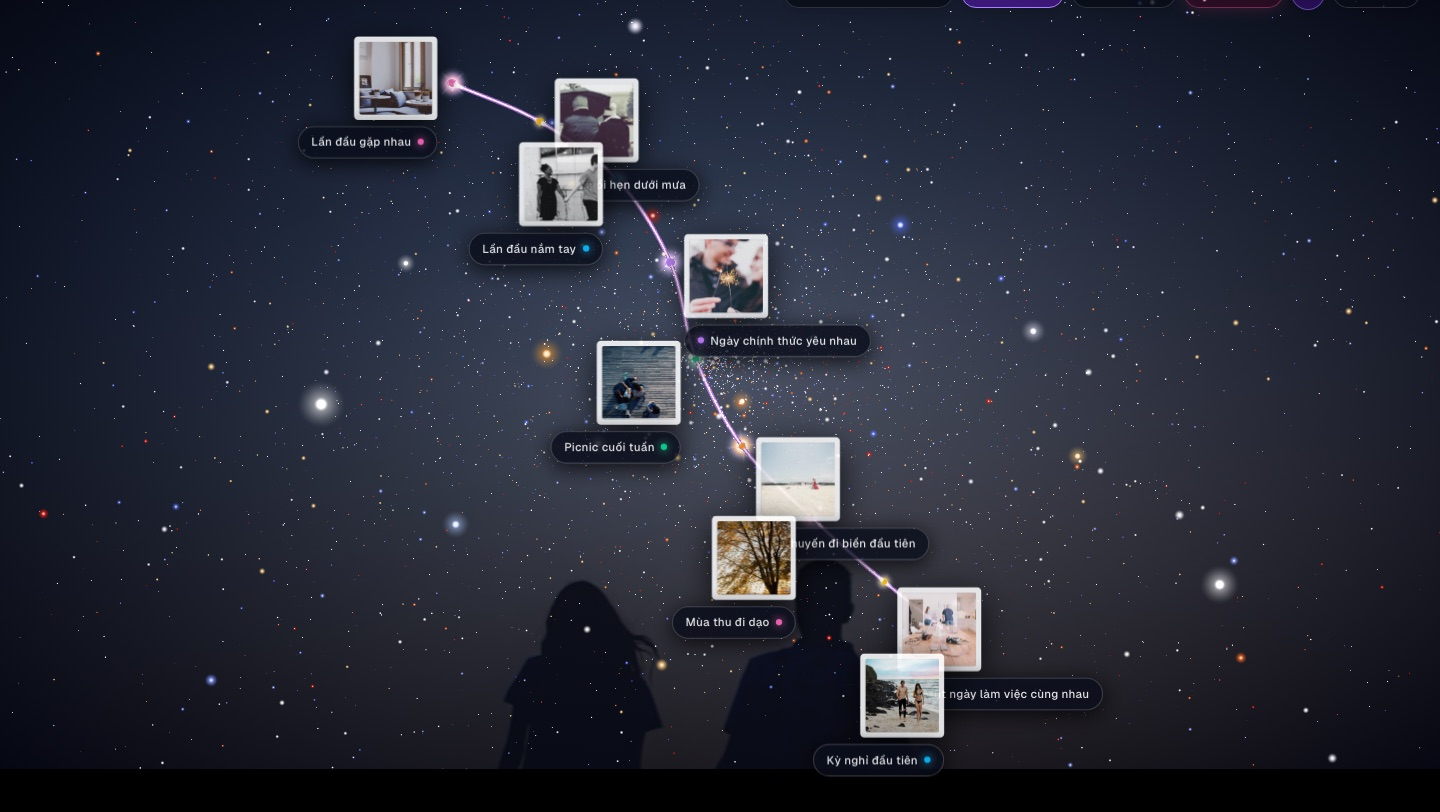
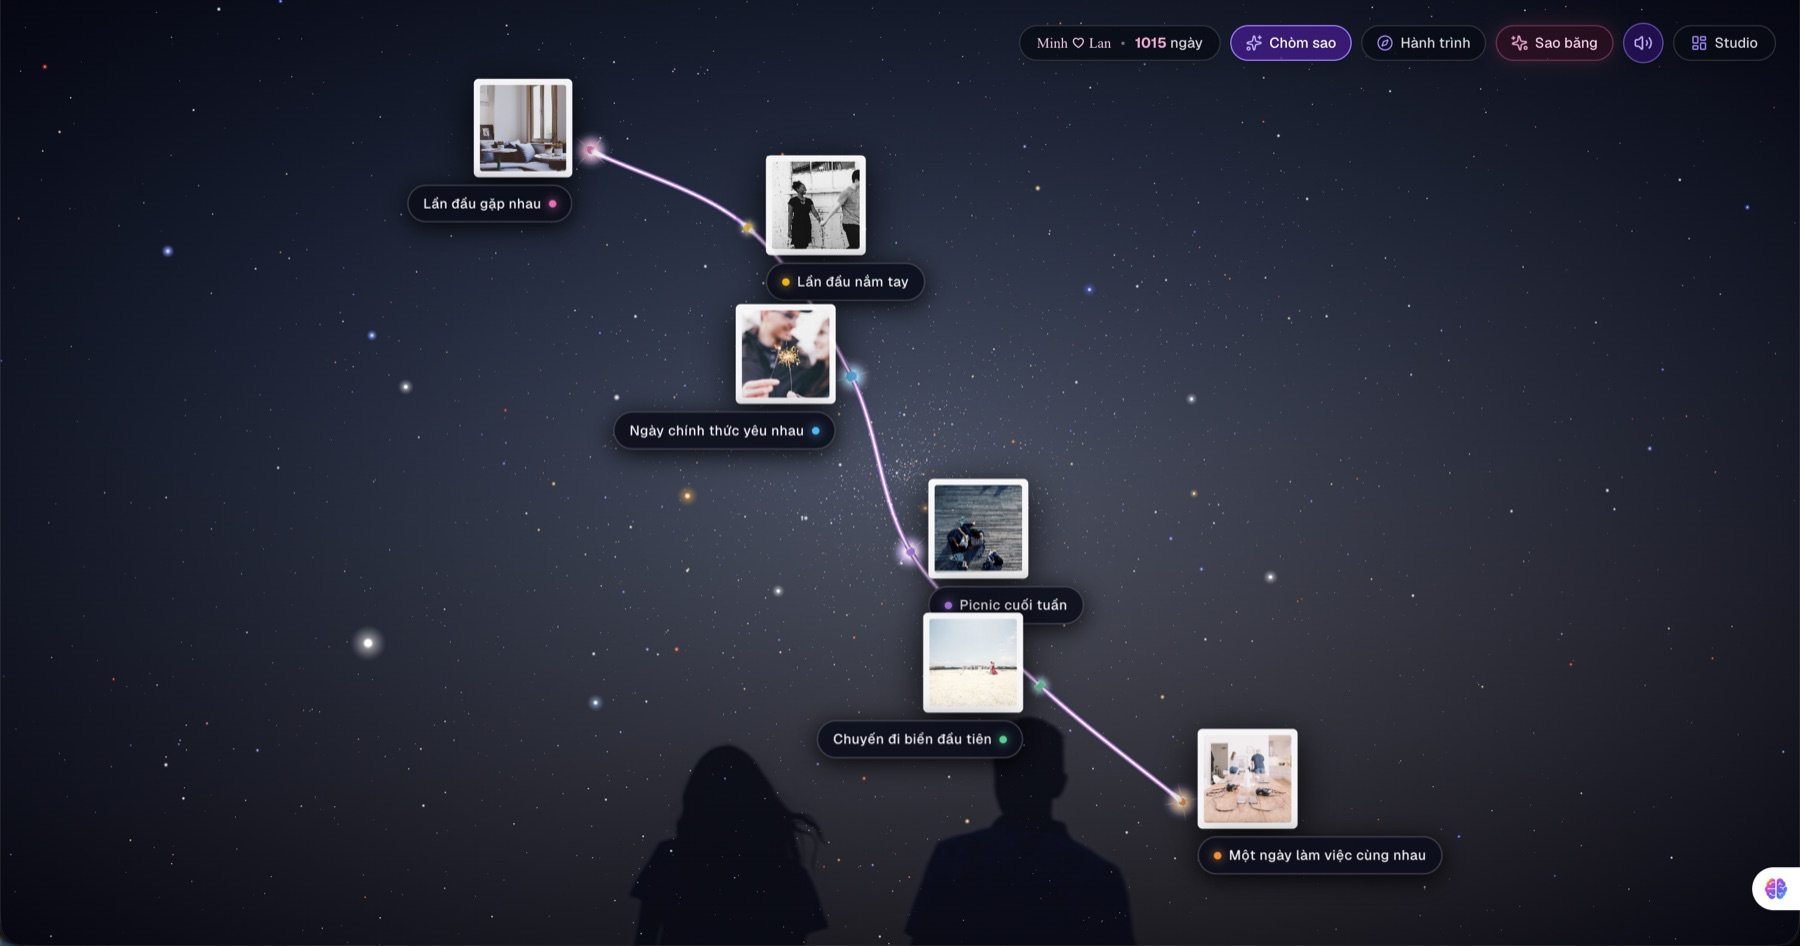
Viết lại README: hướng dẫn chạy local cho Windows, macOS, Linux; cập nhật ảnh ứng dụng

diff --git a/README.md b/README.md
@@ -1,148 +1,290 @@
-# Memories — Our Little Universe 🌌
+# Memories — Our Little Universe
 
-Website lưu giữ kỷ niệm dưới dạng **thiên hà 3D** và **dòng thời gian**. Mỗi kỷ niệm là một ngôi sao: có tiêu đề, ngày, địa điểm và bộ ảnh. Khách xem trang công khai không cần đăng nhập; chủ không gian (và tối đa một người cùng chỉnh sửa) quản lý nội dung trong trang **Studio**.
+Website lưu giữ kỷ niệm của hai người dưới dạng một bầu trời sao 3D. Mỗi kỷ niệm là một ngôi sao, gồm tiêu đề, ngày, địa điểm, lời nhắn và bộ ảnh. Khách xem trang không cần đăng nhập. Chủ không gian (và tối đa một người cùng chỉnh sửa) quản lý nội dung trong trang Studio.
 
-Repo kèm sẵn **dữ liệu mẫu** của một cặp đôi hư cấu (Minh ♡ Lan) để chạy thử ngay.
+Repo có sẵn dữ liệu mẫu của một cặp đôi hư cấu (Minh và Lan), nên clone về là chạy và xem được ngay, không cần tạo tài khoản dịch vụ nào.
 
-## 📸 Ảnh ứng dụng
+## Ảnh ứng dụng
 
-![Thiên hà kỷ niệm](docs/screenshots/galaxy.jpg)
+Bầu trời sao kỷ niệm (trang chủ):
 
-| Dòng thời gian `/story` | Cột mốc `/milestones` | Điện thoại |
-|---|---|---|
-| ![Dòng thời gian](docs/screenshots/story.jpg) | ![Cột mốc](docs/screenshots/milestones.jpg) | ![Mobile](docs/screenshots/galaxy-mobile.jpg) |
+![Bầu trời sao kỷ niệm](docs/screenshots/galaxy.jpg)
+
+Xem chi tiết một kỷ niệm:
+
+![Chi tiết kỷ niệm](docs/screenshots/memory-detail.jpg)
+
+Trang quản trị Studio:
+
+![Studio](docs/screenshots/studio.jpg)
+
+## Tính năng
+
+- Trang chủ `/`: bầu trời sao 3D, mỗi kỷ niệm là một ngôi sao nối với nhau theo thời gian, có bộ đếm số ngày bên nhau và nhạc nền.
+- Bấm vào một ngôi sao để xem ảnh dạng polaroid kèm ngày, địa điểm và lời nhắn.
+- `/story`: dòng thời gian theo năm, có bộ lọc theo năm.
+- `/milestones`: các cột mốc quan trọng.
+- Studio `/studio`: thêm, sửa, xoá kỷ niệm; upload và sắp xếp nhiều ảnh; chọn trạng thái Xuất bản, Riêng tư hoặc Bản nháp; đổi tên hiển thị, tiêu đề, ngày bắt đầu, nhạc nền.
+- Mời người thứ hai cùng chỉnh sửa bằng link dùng một lần, hết hạn sau 7 ngày.
+- Giao diện tối ưu cho điện thoại.
+
+## Công nghệ
+
+Next.js 16 (App Router), React 19, TypeScript, Tailwind CSS 4, Three.js, Supabase (Postgres, Auth, Storage), Zod, Vitest.
 
 ---
 
-## ✨ Tính năng
+## Chạy dự án trên máy
 
-- **Trang chủ `/`**: thiên hà 3D (Three.js) với mỗi kỷ niệm là một ngôi sao, có bộ đếm ngày, xem ảnh dạng lightbox.
-- **`/story`**: dòng thời gian theo năm, lọc nhanh.
-- **`/milestones`**: danh sách các cột mốc.
-- **Studio `/studio`**: tạo / sửa / xoá kỷ niệm, upload nhiều ảnh, sắp xếp ảnh, chọn trạng thái `draft` / `private` / `published`, cài đặt tiêu đề, tagline, ngày bắt đầu, nhạc nền.
-- **Mời người cùng chỉnh sửa**: link mời dùng 1 lần, hết hạn sau 7 ngày (tối đa 2 thành viên mỗi không gian).
-- Tối ưu cho điện thoại (safe-area iOS, cử chỉ vuốt trong lightbox, bottom sheet).
+### Bước 1. Cài Node.js và Git
 
-## 🛠 Công nghệ
+Cần **Node.js bản 20.9 trở lên** (khuyên dùng bản LTS mới nhất) và **Git**. Nếu máy đã có thì bỏ qua bước này. Kiểm tra bằng:
 
-Next.js 16.4.6 (App Router, Turbopack) · React 19 · TypeScript · Tailwind CSS 4 · Three.js · `@xyflow/react` · Supabase (Postgres, Auth, Storage) · Zod · Vitest
+```bash
+node -v
+git --version
+```
 
----
+#### Windows
 
-## 🚀 Chạy dự án
+Cách 1, dùng `winget` (có sẵn trên Windows 10/11). Mở **PowerShell** và chạy:
 
-### Yêu cầu
+```powershell
+winget install OpenJS.NodeJS.LTS
+winget install Git.Git
+```
 
-- **Node.js ≥ 20.9** (khuyến nghị Node 22 LTS trở lên) và npm
-- Git
+Cách 2: tải bộ cài Node.js LTS tại https://nodejs.org và Git tại https://git-scm.com/download/win, rồi bấm Next đến hết.
 
-### Cách 1 — Chạy nhanh với dữ liệu demo (không cần Supabase)
+Sau khi cài xong, **đóng PowerShell và mở lại** để nhận lệnh `node`, `npm`, `git`.
 
-Dự án có sẵn **chế độ local mock**: khi `NEXT_PUBLIC_SUPABASE_URL` chứa `dummy-project`, toàn bộ dữ liệu được đọc/ghi vào file `data/local_store.json` và ảnh upload được lưu vào `public/uploads/`.
+#### macOS
+
+Nếu đã có Homebrew (https://brew.sh):
+
+```bash
+brew install node git
+```
+
+Nếu chưa có Homebrew, tải bộ cài Node.js LTS (file `.pkg`) tại https://nodejs.org. Git sẽ được macOS đề nghị cài (Command Line Tools) ở lần đầu bạn gõ `git`.
+
+#### Linux (Ubuntu / Debian)
+
+Kho mặc định của Ubuntu thường có Node.js quá cũ, nên cài qua NodeSource:
+
+```bash
+sudo apt update
+sudo apt install -y curl git
+curl -fsSL https://deb.nodesource.com/setup_22.x | sudo -E bash -
+sudo apt install -y nodejs
+```
+
+Các bản phân phối khác (Fedora, Arch...) có thể dùng `nvm` (https://github.com/nvm-sh/nvm), cách này dùng được cho cả Linux lẫn macOS:
+
+```bash
+nvm install --lts
+nvm use --lts
+```
+
+### Bước 2. Tải mã nguồn
 
 ```bash
 git clone https://github.com/LionelHuanSi/memories.git
 cd memories
+```
+
+### Bước 3. Cài thư viện
+
+```bash
 npm install
-cp .env.example .env.local   # giữ nguyên giá trị mặc định
+```
+
+Lần đầu mất khoảng 1 đến 3 phút tuỳ tốc độ mạng.
+
+### Bước 4. Tạo file cấu hình `.env.local`
+
+Sao chép file mẫu `.env.example` thành `.env.local`. **Giữ nguyên nội dung**: giá trị mặc định trong đó bật chế độ chạy thử, không cần Supabase.
+
+macOS / Linux:
+
+```bash
+cp .env.example .env.local
+```
+
+Windows (PowerShell):
+
+```powershell
+Copy-Item .env.example .env.local
+```
+
+Windows (Command Prompt):
+
+```bat
+copy .env.example .env.local
+```
+
+### Bước 5. Chạy
+
+```bash
 npm run dev
 ```
 
-Mở <http://localhost:3000>.
+Khi terminal hiện dòng `Ready`, mở trình duyệt vào http://localhost:3000. Bạn sẽ thấy bầu trời sao với 9 kỷ niệm mẫu.
 
-Đăng nhập Studio tại <http://localhost:3000/login>:
+Muốn dừng server, quay lại terminal và bấm `Ctrl + C`.
+
+### Bước 6. Đăng nhập Studio
+
+Mở http://localhost:3000/login và đăng nhập bằng:
 
 | Tài khoản | Mật khẩu |
 |---|---|
 | `demo` | `demo1234` |
 
-> Tài khoản này chỉ tồn tại trong `data/local_store.json` để thử nghiệm local. Muốn đổi, sửa trực tiếp mục `users` trong file đó.
+Sau khi đăng nhập, bạn có thể thêm kỷ niệm, upload ảnh, đổi tên hiển thị và nhạc nền trong mục Cài đặt.
 
-**Khôi phục dữ liệu demo** sau khi đã thêm/sửa thử:
+---
+
+## Dữ liệu khi chạy trên máy được lưu ở đâu
+
+Ở chế độ chạy thử, app không dùng database thật:
+
+- Kỷ niệm, tài khoản, cài đặt: lưu trong file `data/local_store.json`.
+- Ảnh và nhạc bạn upload: lưu trong thư mục `public/uploads/`. Thư mục này đã nằm trong `.gitignore` nên không bị đẩy lên Git.
+
+Đổi tài khoản hoặc mật khẩu: sửa mục `users` trong `data/local_store.json`, rồi khởi động lại server.
+
+### Đưa dữ liệu về như ban đầu
+
+macOS / Linux:
 
 ```bash
 git checkout -- data/local_store.json
 rm -rf public/uploads
 ```
 
-### Cách 2 — Chạy với Supabase thật
+Windows (PowerShell):
 
-1. Tạo một project trên [Supabase](https://supabase.com).
-2. Mở **SQL Editor** và chạy lần lượt các file:
-   1. `supabase/migrations/20261013000001_initial_schema.sql` — bảng, enum, trigger giới hạn 2 thành viên
-   2. `supabase/migrations/20261013000002_rls_policies.sql` — Row Level Security, hàm nhận lời mời
-   3. `supabase/migrations/20261013000003_storage_policies.sql` — bucket `memories-media` và policy
-   4. *(tuỳ chọn)* `supabase/seed.sql` — nạp dữ liệu mẫu
-3. Tạo `.env.local` từ mẫu và điền thông tin trong **Project Settings → API**:
+```powershell
+git checkout -- data/local_store.json
+Remove-Item -Recurse -Force public/uploads
+```
+
+---
+
+## Chạy trên máy với Supabase của riêng bạn (không bắt buộc)
+
+Làm phần này khi bạn muốn dùng database thật thay cho file JSON.
+
+1. Tạo một project miễn phí tại https://supabase.com.
+2. Trong project, mở **SQL Editor** và chạy lần lượt nội dung các file sau (mỗi file một lần, theo đúng thứ tự):
+   1. `supabase/migrations/20261013000001_initial_schema.sql`
+   2. `supabase/migrations/20261013000002_rls_policies.sql`
+   3. `supabase/migrations/20261013000003_storage_policies.sql`
+   4. `supabase/seed.sql` (dữ liệu mẫu, có thể bỏ qua)
+3. Vào **Project Settings > API Keys**, lấy Project URL, `anon` key và `service_role` key, rồi điền vào `.env.local`:
 
    ```env
    NEXT_PUBLIC_SUPABASE_URL=https://<project-ref>.supabase.co
    NEXT_PUBLIC_SUPABASE_ANON_KEY=<anon-key>
-   SUPABASE_SERVICE_ROLE_KEY=<service-role-key>   # chỉ dùng phía server, không commit
+   SUPABASE_SERVICE_ROLE_KEY=<service-role-key>
    NEXT_PUBLIC_APP_URL=http://localhost:3000
-   BOOTSTRAP_SECRET=<chuỗi-ngẫu-nhiên>
+   BOOTSTRAP_SECRET=<chuoi-ngau-nhien-bat-ky>
    DEFAULT_SPACE_SLUG=our-universe
    DEFAULT_SPACE_TITLE="Our Little Universe"
    ```
 
-4. Tạo tài khoản chủ không gian (owner):
+   `service_role` key có toàn quyền với database. Không chia sẻ và không commit file `.env.local`.
+
+4. Tạo tài khoản chủ không gian:
 
    ```bash
-   node scripts/bootstrap.mjs owner@example.com <mat-khau-manh>
+   node scripts/bootstrap.mjs email-cua-ban@gmail.com MatKhauCuaBan123
    ```
 
-   Script tạo không gian (nếu chưa có), tạo user trong Supabase Auth và gán quyền `owner`.
-
-5. Chạy `npm run dev`, đăng nhập tại `/login` bằng email/mật khẩu vừa tạo.
+5. Chạy `npm run dev` rồi đăng nhập tại http://localhost:3000/login bằng **đầy đủ email** và mật khẩu vừa tạo.
 
 ### Biến môi trường
 
-| Biến | Bắt buộc | Mô tả |
-|---|---|---|
-| `NEXT_PUBLIC_SUPABASE_URL` | ✅ | URL Supabase. Chứa `dummy-project` ⇒ bật chế độ local mock |
-| `NEXT_PUBLIC_SUPABASE_ANON_KEY` | ✅ | Anon key |
-| `SUPABASE_SERVICE_ROLE_KEY` | ✅ | Service role key (server-only) |
-| `NEXT_PUBLIC_APP_URL` | ✅ | URL gốc của app, dùng để tạo link mời |
-| `BOOTSTRAP_SECRET` | | Secret cho `POST /api/bootstrap` |
-| `DEFAULT_SPACE_SLUG` | | Slug không gian mặc định (`our-universe`) |
-| `DEFAULT_SPACE_TITLE` | | Tiêu đề không gian khi bootstrap |
+| Biến | Ý nghĩa |
+|---|---|
+| `NEXT_PUBLIC_SUPABASE_URL` | URL Supabase. Nếu chứa `dummy-project` thì app chạy ở chế độ chạy thử (dùng `data/local_store.json`) |
+| `NEXT_PUBLIC_SUPABASE_ANON_KEY` | Anon key của Supabase |
+| `SUPABASE_SERVICE_ROLE_KEY` | Service role key, chỉ dùng phía server |
+| `NEXT_PUBLIC_APP_URL` | Địa chỉ gốc của app, dùng để tạo link mời |
+| `BOOTSTRAP_SECRET` | Mã bí mật cho API `POST /api/bootstrap` |
+| `DEFAULT_SPACE_SLUG` | Slug không gian mặc định, để `our-universe` |
+| `DEFAULT_SPACE_TITLE` | Tiêu đề không gian khi chạy bootstrap |
 
 ---
 
-## 🧪 Lệnh hữu ích
+## Các lệnh có sẵn
 
-```bash
-npm run dev        # server phát triển (http://localhost:3000)
-npm run build      # build production
-npm run start      # chạy bản đã build
-npm test           # chạy test Vitest
-npm run typecheck  # kiểm tra kiểu TypeScript
-npm run lint       # ESLint
-```
+| Lệnh | Tác dụng |
+|---|---|
+| `npm run dev` | Chạy server phát triển tại http://localhost:3000 |
+| `npm run build` | Build bản production |
+| `npm run start` | Chạy bản đã build (sau `npm run build`) |
+| `npm test` | Chạy bộ test |
+| `npm run typecheck` | Kiểm tra kiểu TypeScript |
+| `npm run lint` | Kiểm tra quy chuẩn code |
 
-## 📁 Cấu trúc thư mục
+## Cấu trúc thư mục
 
 ```text
 src/
-  app/                  # Route (App Router): /, /story, /milestones, /login, /studio, /invite, /api
-  components/public/    # Thiên hà 3D, timeline, lightbox, header
-  components/studio/    # Form kỷ niệm, quản lý ảnh
-  lib/supabase/         # Client Supabase + local-mock.ts (chế độ không cần Supabase)
-  lib/validations/      # Schema Zod
-  middleware.ts         # Bảo vệ /studio
+  app/                  Các trang và API: /, /story, /milestones, /login, /studio, /invite, /api
+  components/public/    Bầu trời sao 3D, dòng thời gian, xem ảnh
+  components/studio/    Form kỷ niệm, quản lý ảnh
+  lib/supabase/         Kết nối Supabase và local-mock.ts (chế độ chạy thử)
+  lib/validations/      Kiểm tra dữ liệu đầu vào
+  middleware.ts         Bảo vệ các trang /studio
 supabase/
-  migrations/           # Schema, RLS, storage policy
-  seed.sql              # Dữ liệu mẫu cho Supabase
-data/local_store.json   # "Database" của chế độ local mock
-public/demo/couple/     # Ảnh mẫu
-scripts/bootstrap.mjs   # Tạo owner đầu tiên trên Supabase
-tests/                  # Test Vitest
+  migrations/           Cấu trúc database và phân quyền
+  seed.sql              Dữ liệu mẫu cho Supabase
+data/local_store.json   Dữ liệu của chế độ chạy thử
+public/demo/couple/     Ảnh mẫu
+scripts/bootstrap.mjs   Tạo tài khoản chủ không gian trên Supabase
+tests/                  Bộ test
 ```
 
-## 🎨 Tuỳ biến nhanh
+## Tuỳ biến nhanh
 
-- **Tên hiển thị, tiêu đề, tagline, ngày bắt đầu, nhạc nền**: chỉnh trong Studio → **Cài đặt**, hoặc sửa mục `spaces` trong `data/local_store.json`.
-- **Hình nền thiên hà**: thay file `public/wallpaper.jpg` (hoặc sửa `backgroundImage` trong `STARFIELD_CONFIG` ở `src/components/public/CosmicGalaxy3D.tsx`).
-- **Ảnh dự phòng** khi ảnh lỗi: `public/fallback-photo.jpg`.
+- Tên hiển thị, tiêu đề, ngày bắt đầu, nhạc nền: Studio > Cài đặt.
+- Ảnh nền bầu trời sao: thay file `public/wallpaper.jpg`.
+- Ảnh hiển thị khi một ảnh bị lỗi: thay file `public/fallback-photo.jpg`.
 
-Tài liệu thiết kế chi tiết: [MEMORIES_SRS.md](MEMORIES_SRS.md) · Quyết định kiến trúc: [DECISIONS.md](DECISIONS.md)
+## Lỗi thường gặp
+
+**`node` hoặc `npm` không được nhận diện (Windows)**
+Đóng hẳn PowerShell hoặc Command Prompt rồi mở lại sau khi cài Node.js. Nếu vẫn lỗi, khởi động lại máy.
+
+**PowerShell báo "running scripts is disabled on this system"**
+Chạy lệnh sau một lần rồi thử lại:
+
+```powershell
+Set-ExecutionPolicy -Scope CurrentUser RemoteSigned
+```
+
+Hoặc dùng Command Prompt (`cmd`) thay cho PowerShell.
+
+**Cổng 3000 đã bị dùng**
+Chạy ở cổng khác, ví dụ 3001:
+
+```bash
+npm run dev -- -p 3001
+```
+
+**Báo lỗi phiên bản Node**
+Kiểm tra `node -v`. Nếu thấp hơn 20.9 thì cài lại Node.js bản LTS theo Bước 1.
+
+**Đăng nhập báo sai tài khoản hoặc mật khẩu**
+Kiểm tra `.env.local` có đúng nội dung của `.env.example` không. Nếu đã sửa `data/local_store.json`, đưa nó về như ban đầu theo hướng dẫn ở phần trên.
+
+**Bầu trời sao không hiện hoặc màn hình đen**
+Trang chủ cần WebGL. Dùng bản mới của Chrome, Edge, Firefox hoặc Safari và bật tăng tốc phần cứng trong cài đặt trình duyệt.
+
+## Tài liệu thêm
+
+- Đặc tả chức năng: [MEMORIES_SRS.md](MEMORIES_SRS.md)
+- Các quyết định kiến trúc: [DECISIONS.md](DECISIONS.md)
